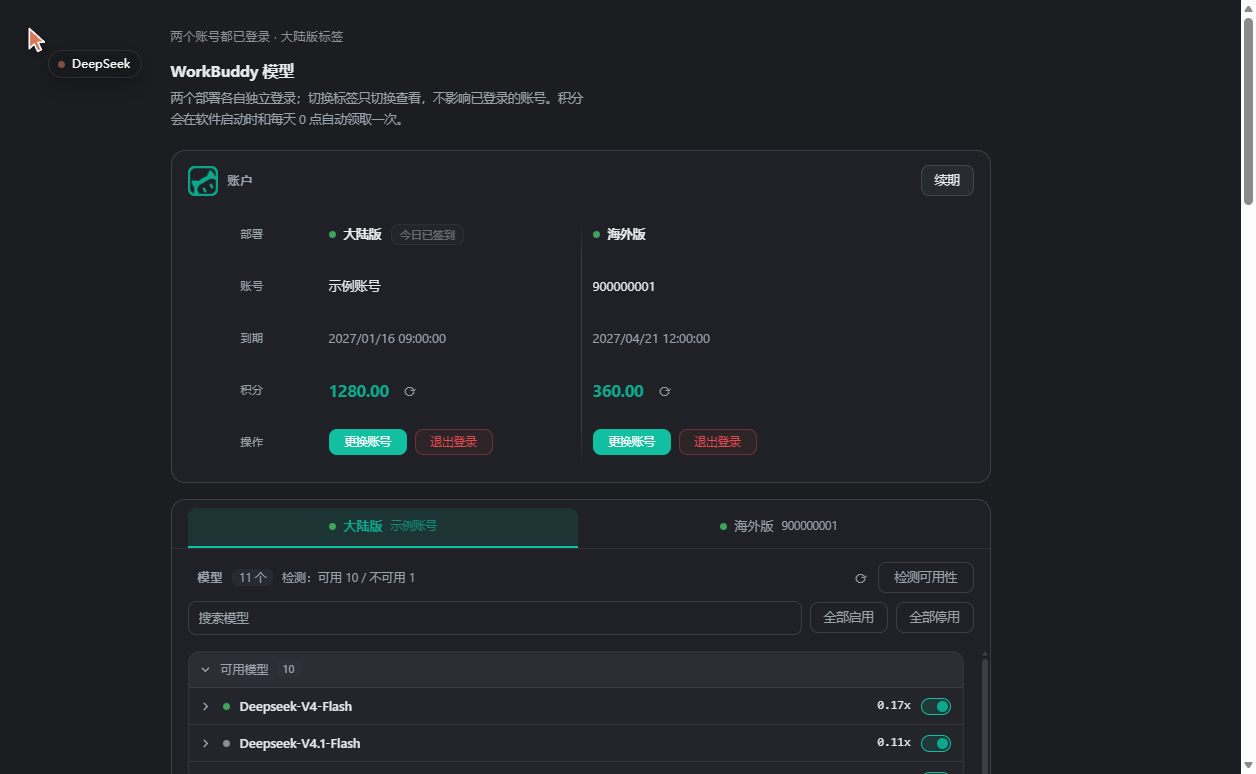
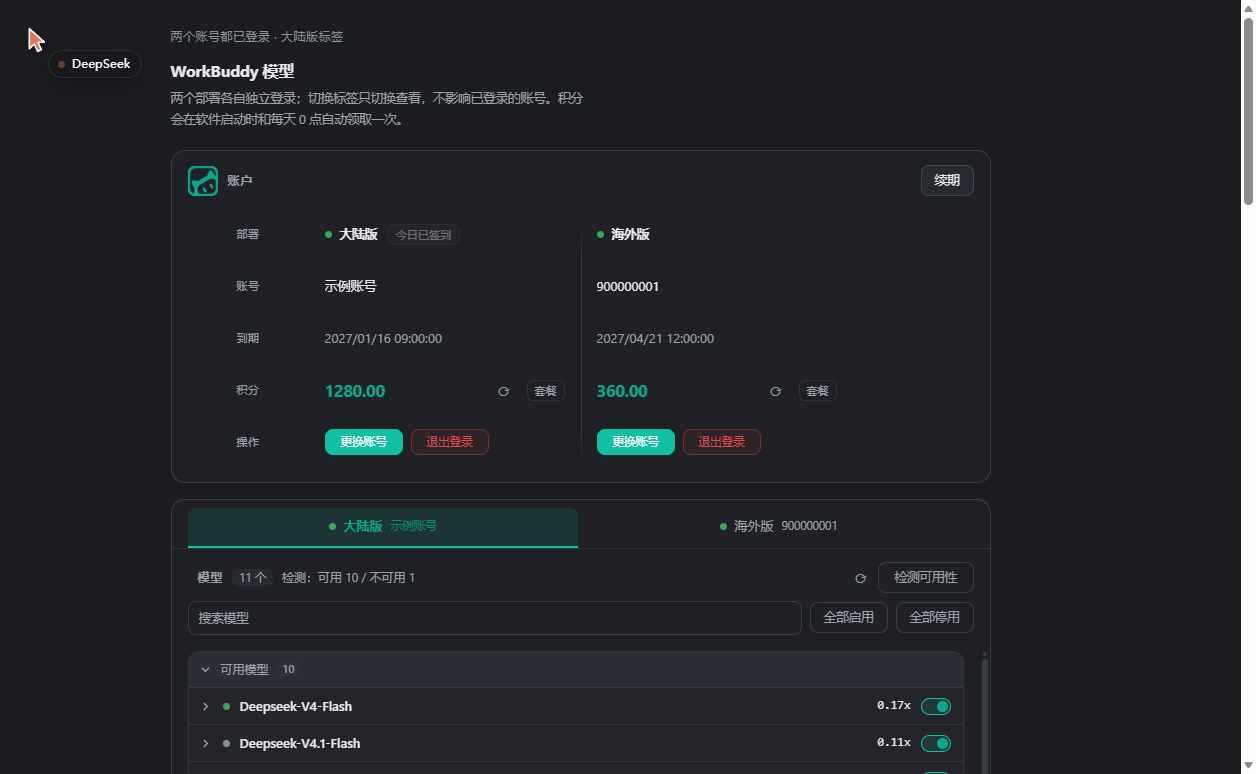
feat(panel): a plans link beside the balance refresh, with the actions pinned right
The balance row now carries a link out to the deployment's official plans page;
the host resolves it from a page allowlist so the route can never be asked to
open an arbitrary URL. Values stay on the column's left edge and both actions
hug its right edge, and the columns were retuned so the extra button still fits
a narrow panel without a horizontal scrollbar.

diff --git a/client/index.js b/client/index.js
@@ -51,6 +51,9 @@ window.__ModuleLoader__.load({
         colCredits: '积分',
         colActions: '操作',
         refreshCredits: '刷新积分',
+        openPlans: '套餐',
+        openPlansHint: '在浏览器打开该部署的官方套餐页（用量与订阅）',
+        openPlansFailed: (url) => `没能自动打开浏览器，请手动访问：${url}`,
         creditsRate: '消耗速度（实时）',
         models: '模型',
         login: '登录',
@@ -135,6 +138,9 @@ window.__ModuleLoader__.load({
         colCredits: 'Credits',
         colActions: 'Actions',
         refreshCredits: 'Refresh credits',
+        openPlans: 'Plans',
+        openPlansHint: 'Open this deployment’s official plans page in your browser',
+        openPlansFailed: (url) => `Could not launch a browser — open this instead: ${url}`,
         creditsRate: 'Consumption rate (live)',
         models: 'Models',
         login: 'Sign in',
@@ -253,12 +259,15 @@ window.__ModuleLoader__.load({
   /* The minimum keeps a row on one line; below that the table scrolls instead of
      reflowing a row. Kept small because the balance row only ever holds the
      number and its refresh. */
-  grid-template-columns: 64px repeat(var(--wb-cols), minmax(150px, 240px)) 64px;
+  grid-template-columns: 56px repeat(var(--wb-cols), minmax(158px, 240px)) 56px;
   justify-content: center;
   /* Rows are a fixed height in every state, so the card does not change size
      between "loading" and "signed in", and the separators line up. */
   grid-auto-rows: 52px;
-  column-gap: 24px; row-gap: 0; align-items: stretch; }
+  /* The gap is also the clearance on both sides of the separator drawn down the
+     middle, so it has to read as a division (about 16px of air per column) —
+     wide enough that the balance row's buttons never touch the line. */
+  column-gap: 32px; row-gap: 0; align-items: stretch; }
 /* One continuous separator between the deployments, drawn down the middle of
    the symmetric grid. It fades out at both ends, so it reads as a division of
    the two accounts rather than a stray table border. */
@@ -274,16 +283,24 @@ window.__ModuleLoader__.load({
    read; only the standalone sign-in cell is centred. No rule between rows: the
    spacing and the vertical separator already say where the columns are. */
 .wb-td { min-width: 0; display: flex; flex-wrap: wrap; align-items: center; gap: 8px; }
+/* The action pair of one cell, pinned to the right edge of its column. */
+.wb-cell-actions { margin-left: auto; display: inline-flex; align-items: center; gap: 10px; }
 .wb-td-span { display: flex; align-items: center; justify-content: center; }
 .wb-account-name { overflow: hidden; text-overflow: ellipsis; white-space: nowrap; }
 .wb-num { font-variant-numeric: tabular-nums; color: var(--wb-muted); }
 .wb-credits-value { font-size: 16.5px; font-weight: 650; color: var(--wb-accent-strong);
   font-variant-numeric: tabular-nums; letter-spacing: -.01em; }
 /* A bare icon action: no box, just the glyph, tinted on hover. */
-.wb-icon-btn { font: inherit; font-size: 13px; line-height: 1; padding: 5px 7px; border-radius: 6px; cursor: pointer;
-  border: 0; background: transparent; color: var(--wb-muted); transition: background .15s, color .15s; }
+.wb-icon-btn { font: inherit; font-size: 13px; line-height: 1; padding: 5px 7px; border-radius: 6px; cursor: pointer;  border: 0; background: transparent; color: var(--wb-muted); transition: background .15s, color .15s; }
 .wb-icon-btn:hover:not(:disabled) { background: var(--wb-accent-soft); color: var(--wb-accent-strong); }
 .wb-icon-btn:disabled { opacity: .4; cursor: not-allowed; }
+/* The link out to the official plans page: same quiet weight as the icon
+   actions beside it, but it needs words to say where it goes — kept tight so the
+   balance row still fits one line in a narrow panel. */
+.wb-link-btn { font: inherit; font-size: 11px; line-height: 1; padding: 4px 7px; border-radius: 6px;
+  cursor: pointer; border: 1px solid var(--wb-line-soft); background: transparent; color: var(--wb-muted);
+  white-space: nowrap; transition: background .15s, color .15s, border-color .15s; }
+.wb-link-btn:hover { background: var(--wb-accent-soft); color: var(--wb-accent-strong); border-color: transparent; }
 .wb-td .wb-btn { display: inline-flex; align-items: center; justify-content: center;
   padding: 5px 10px; font-size: 11.5px; min-width: 78px; }
 .wb-td-span .wb-btn { padding: 7px 16px; }
@@ -851,6 +868,25 @@ window.__ModuleLoader__.load({
         }
       }
 
+      /**
+       * Open the deployment's official plans page in the user's browser.
+       *
+       * The host resolves the URL from its own allowlist, so the panel only ever
+       * names a page. When launching fails the reply still carries the URL and
+       * the panel shows it, rather than pretending nothing happened.
+       */
+      const openPlans = async (regionId) => {
+        setError('')
+        try {
+          const result = await request('/open', { method: 'POST', body: JSON.stringify({ region: regionId, page: 'plans' }) })
+          if (result.opened !== true && typeof result.url === 'string') {
+            setError(t('openPlansFailed')(result.url))
+          }
+        } catch (cause) {
+          setError(cause instanceof Error ? cause.message : String(cause))
+        }
+      }
+
       const credits = region?.credits
       const checkin = region?.checkin
       const models = region === undefined ? undefined : modelMap[region.id]
@@ -1161,15 +1197,29 @@ window.__ModuleLoader__.load({
             entry.credits !== null && entry.credits !== undefined && entry.credits.ok === true
               ? h('span', { key: 'value', className: 'wb-credits-value' }, formatCredits(entry.credits.total))
               : h('span', { key: 'value', className: 'wb-muted' }, t('unknown')),
-            h('button', {
-              key: 'refresh',
-              type: 'button',
-              className: 'wb-icon-btn',
-              title: t('refreshCredits'),
-              'aria-label': t('refreshCredits'),
-              disabled: creditBusy === entry.id,
-              onClick: () => void refreshCredits(entry.id)
-            }, creditBusy === entry.id ? '…' : '⟳')
+            // The number stays on the left edge (it lines up with the account and
+            // expiry values above); both actions sit against the column's right
+            // edge, so they never crowd the figure and always read as controls.
+            h('span', { key: 'actions', className: 'wb-cell-actions' }, [
+              h('button', {
+                key: 'refresh',
+                type: 'button',
+                className: 'wb-icon-btn',
+                title: t('refreshCredits'),
+                'aria-label': t('refreshCredits'),
+                disabled: creditBusy === entry.id,
+                onClick: () => void refreshCredits(entry.id)
+              }, creditBusy === entry.id ? '…' : '⟳'),
+              // The official plans page needs the deployment's own signed-in
+              // session, so it opens in the user's browser rather than in here.
+              h('button', {
+                key: 'plans',
+                type: 'button',
+                className: 'wb-link-btn',
+                title: t('openPlansHint'),
+                onClick: () => void openPlans(entry.id)
+              }, t('openPlans'))
+            ])
           ]))
           cells.push(cell(3, 'actions', accountActions(entry)))
         })

diff --git a/src/api.js b/src/api.js
@@ -21,7 +21,7 @@ import { claimDailyCheckin, fetchCheckinStatus, fetchCredits } from './credits.j
 import { localDayKey } from './http.js'
 import { isEnabled, readPrefs, setEnabled } from './model-prefs.js'
 import { readOfficialList, writeOfficialList } from './official-list.js'
-import { REGIONS, REGION_IDS } from './regions.js'
+import { REGIONS, REGION_IDS, sitePageUrl } from './regions.js'
 import { notifyModelTopology } from './topology.js'
 
 const API_PREFIX = '/workbuddy'
@@ -32,6 +32,12 @@ const ICON_PATH = fileURLToPath(new URL('../icon.webp', import.meta.url))
 const MASK_PATH = fileURLToPath(new URL('../icon-mask.png', import.meta.url))
 let iconBytes
 let maskBytes
+
+/** Late-bound so importing this module never pulls in the child-process helper. */
+async function defaultOpenInBrowser(url) {
+  const { openInBrowser } = await import('./regions.js')
+  return openInBrowser(url)
+}
 
 /**
  * Which build of this file the running host actually loaded.
@@ -135,8 +141,14 @@ async function statePayload(ctx, adapters) {
 /**
  * Register the panel's routes. Call inside `ctx.inject(['webServer'], …)` so a
  * composition without an HTTP carrier keeps the adapter and the command.
+ *
+ * @param {object} ctx - host plugin context.
+ * @param {Record<string, object>} adapters - per-deployment adapters.
+ * @param {{ openInBrowser?: (url: string) => boolean }} [options] - the browser
+ *   opener is injectable so tests never launch a real one.
  */
-export function registerWorkbuddyApi(ctx, adapters) {
+export function registerWorkbuddyApi(ctx, adapters, options = {}) {
+  const openInBrowser = options.openInBrowser ?? defaultOpenInBrowser
   const rejected = (req, res) => {
     const connection = ctx.get('connection')
     if (connection === undefined || typeof connection.requestRejection !== 'function') return false
@@ -310,6 +322,32 @@ export function registerWorkbuddyApi(ctx, adapters) {
           total: models.length,
           enabledCount: models.filter((entry) => isEnabled(prefs, entry.id, dead.has(entry.id))).length
         })
+        return
+      }
+
+      /**
+       * Open one of the deployment's own site pages in the user's browser.
+       *
+       * The panel sends a page *name*; the URL comes from `SITE_PAGES`, so this
+       * route can never be talked into opening an arbitrary address. The reply
+       * carries the URL even when launching failed, so the panel can show it.
+       */
+      if (path === `${API_PREFIX}/open` && method === 'POST') {
+        const body = await readJsonBody(req)
+        const region = REGIONS[String(body?.region ?? '').toLowerCase()]
+        const url = sitePageUrl(region, body?.page)
+        if (url === undefined) {
+          sendJson(res, 400, { error: 'unknown region or page' })
+          return
+        }
+        let opened = false
+        try {
+          opened = (await openInBrowser(url)) !== false
+        } catch (error) {
+          ctx.logger.warn(`[workbuddy] ${region.id}: 打开 ${url} 失败 — ${error instanceof Error ? error.message : String(error)}`)
+        }
+        ctx.logger.info(`[workbuddy] ${region.id}: 打开官方页面 ${url}（${opened ? '已交给浏览器' : '启动失败'}）`)
+        sendJson(res, 200, { region: region.id, url, opened })
         return
       }
 

diff --git a/src/regions.js b/src/regions.js
@@ -76,6 +76,30 @@ export function regionList(raw) {
   return region === undefined ? [] : [region]
 }
 
+/**
+ * Site pages the panel may ask the user's browser to open.
+ *
+ * A fixed list on purpose: the panel sends a page *name*, never a URL, so a
+ * compromised or careless client cannot make the host open an arbitrary address
+ * (or a different host) through this route.
+ */
+export const SITE_PAGES = {
+  plans: '/profile/plans-usage'
+}
+
+/**
+ * Resolve one allowed site page for a deployment.
+ *
+ * @param {object} region - entry from `REGIONS`.
+ * @param {string} page - key from `SITE_PAGES`.
+ * @returns {string|undefined} absolute URL, or `undefined` when the pair is unknown.
+ */
+export function sitePageUrl(region, page) {
+  const path = SITE_PAGES[String(page ?? '').toLowerCase()]
+  if (region === undefined || path === undefined) return undefined
+  return `${region.endpoint}${path}`
+}
+
 /** Chat routes in preference order: the gateway first, the web host as fallback. */
 export function chatRoutes(region) {
   const primary = {
